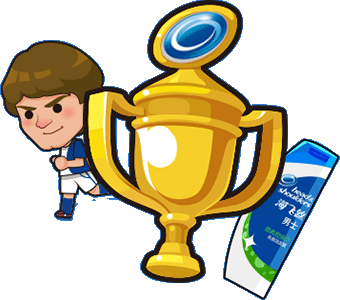
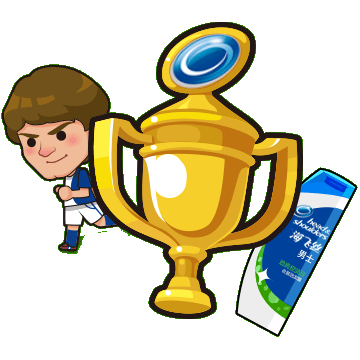
gameover

diff --git a/app/styles/main.css b/app/styles/main.css
@@ -280,7 +280,7 @@ img {
     padding: 2px;
     position: relative;
     display: block;
-    max-width: 740px;
+    max-width: 600px;
 }
 .gameButton.disabled {
     background: #d4d4d4;
@@ -1002,6 +1002,27 @@ img {
   animation:         float 1s infinite; /* IE 10+ */
 
 }
+@-webkit-keyframes rotate {
+  from {
+    -webkit-transform: rotate(0deg);
+  }
+  to { 
+    -webkit-transform: rotate(360deg);
+  }
+}
+@keyframes rotate {
+  from {
+    transform: rotate(0deg);
+  }
+  to { 
+    transform: rotate(360deg);
+  }
+}
+.rotate {
+  -webkit-animation: rotate 6s infinite linear; /* Safari 4+ */
+  animation:         rotate 6s infinite linear; /* IE 10+ */
+
+}
 @-webkit-keyframes opencard {
   0% {
     -webkit-transform: rotateX(0deg);
@@ -1509,7 +1530,7 @@ textarea.form-control {
     line-height: 24px;
     width: 100%;
     position: absolute;
-    top:240px;
+    top:320px;
     left: 0;
 }
 .yellow {
@@ -1600,16 +1621,58 @@ textarea.form-control {
     bottom: 0px;
     
 }
+#gameOverTop {
+    width: 180px;
+    height: 180px;
+    position: relative;
+}
+#gameOverBelt {
+    width: 231px;
+    height: 100px;
+    margin: 0 auto;
+    background: url(../../app/img/gameoverbelt.png) no-repeat center center;
+    background-size: 231px 100px;
+    text-align: center;
+    top:-50px;
+    position: relative;
+    color: #FFF;
+}
+#gameOverBg {
+    background: url(../../app/img/gameoverbg.png) no-repeat center center;
+    width: 300px;
+    height: 300px;
+    position: absolute;
+    left: 50%;
+    margin-left:-150px;
+    top: -20px;
+}
+#gameOverScore {
+    font-size: 34px;
+    font-weight: bold;
+    text-shadow: 2px 2px 0 rgba(0,0,0,0.5);
+    padding-top: 15px;
+    line-height: 36px;
+    height: 36px;
+}
+#gameOverScore small {
+    font-size: 10px;
+    text-shadow: none;
+    position: relative;
+    top: -12px;
+    right: -2px;
+}
+#gameOverRanking {
+    font-size: 10px;
+}
 @media only screen and (min-width: 750px){
     /* Style adjustments for viewports that meet the condition */
     #header {
-        background-size: 100% auto;
+        background-size: 100% 100%;
         background-position: center center;
         height: 250px; 
     }
     #logo {
         width: 340px;
-        padding-top: 35px;
     }
     #plane {
         width: 200px;
@@ -1835,13 +1898,13 @@ textarea.form-control {
     font-size: 12px;
 }
 #user {
-    top: -85px;
-    left: 51px;
-    font-size: 18px;
+    top: -30px;
+    left: 50%;
+    margin-left: -25px;
 }
 #user-avatar {
-    width: 64px;
-    height: 64px;
+    width: 50px;
+    height: 50px;
 }
 #user-name {
     
@@ -2075,13 +2138,7 @@ textarea.form-control {
 .bar-inner {
     border-radius: 28px 2px 28px 2px;
 }
-#gameOverTop {
-    width: 170px;
-}
-#gameOverBelt {
-    width: 231px;
-    margin: 0 auto;
-}
+
 #award-action {
     bottom: -25px;
 }

diff --git a/app/templates/GameOver.html b/app/templates/GameOver.html
@@ -3,7 +3,7 @@
                 {{score}}<small>分</small>
             </div>
             <div id="gameOverRanking">
-                {{gameRanking}}
+                实力总排名：{{gameRanking}}
             </div>
         </div>
 
@@ -12,7 +12,7 @@
         
         <div id="gameOver-share" class="btn btn-red btn-block">
             <div class="btn-inner">
-                    <i class="fa fa-share-square-o"></i> 分享成绩
+                    <i class="fa fa-share-square-o"></i> 晒成绩 得奖券
             </div>
         </div>
         <div id="gameOver-re" class="btn btn-blue btn-block">

diff --git a/app/templates/Game.html b/app/templates/Game.html
@@ -31,6 +31,7 @@
 </div><!-- gameHelp -->
 <div id="gameOver">
     <div class="container">
+        <div id="gameOverBg" class="rotate"></div>
         <div id="gameOverTop">
             <img src="app/img/gameovertop.png" />
         </div>
